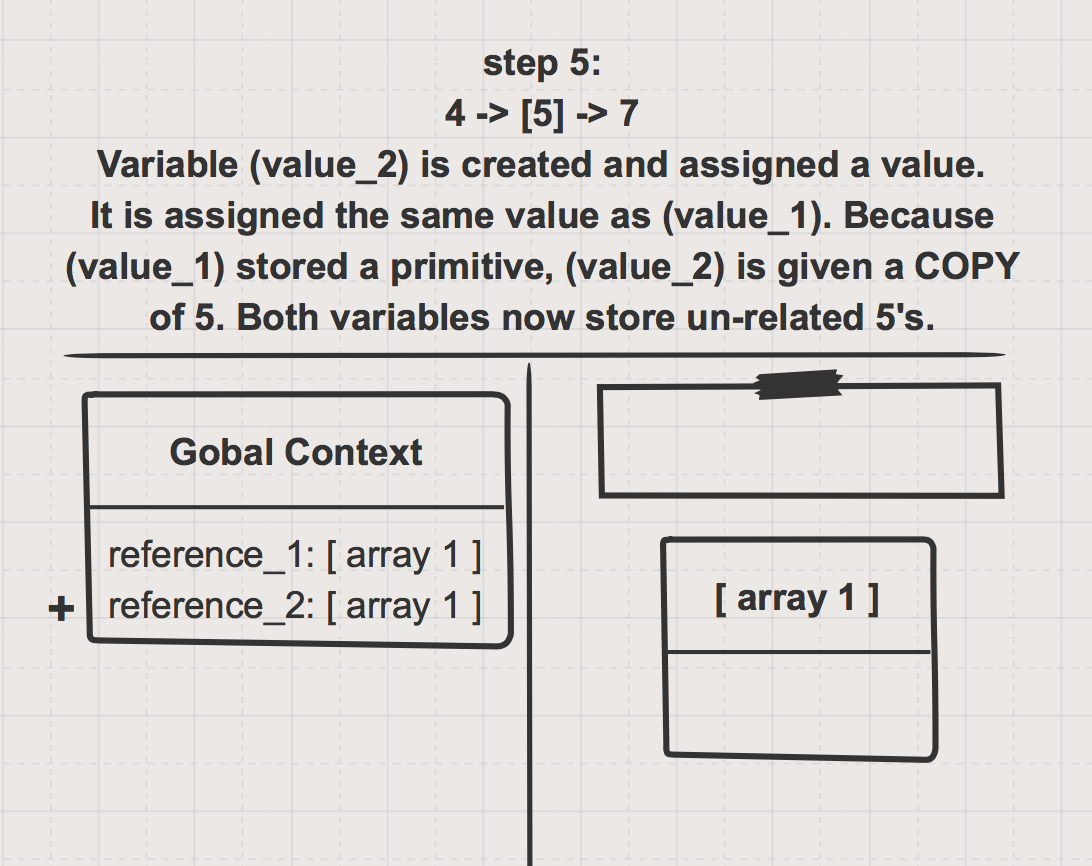
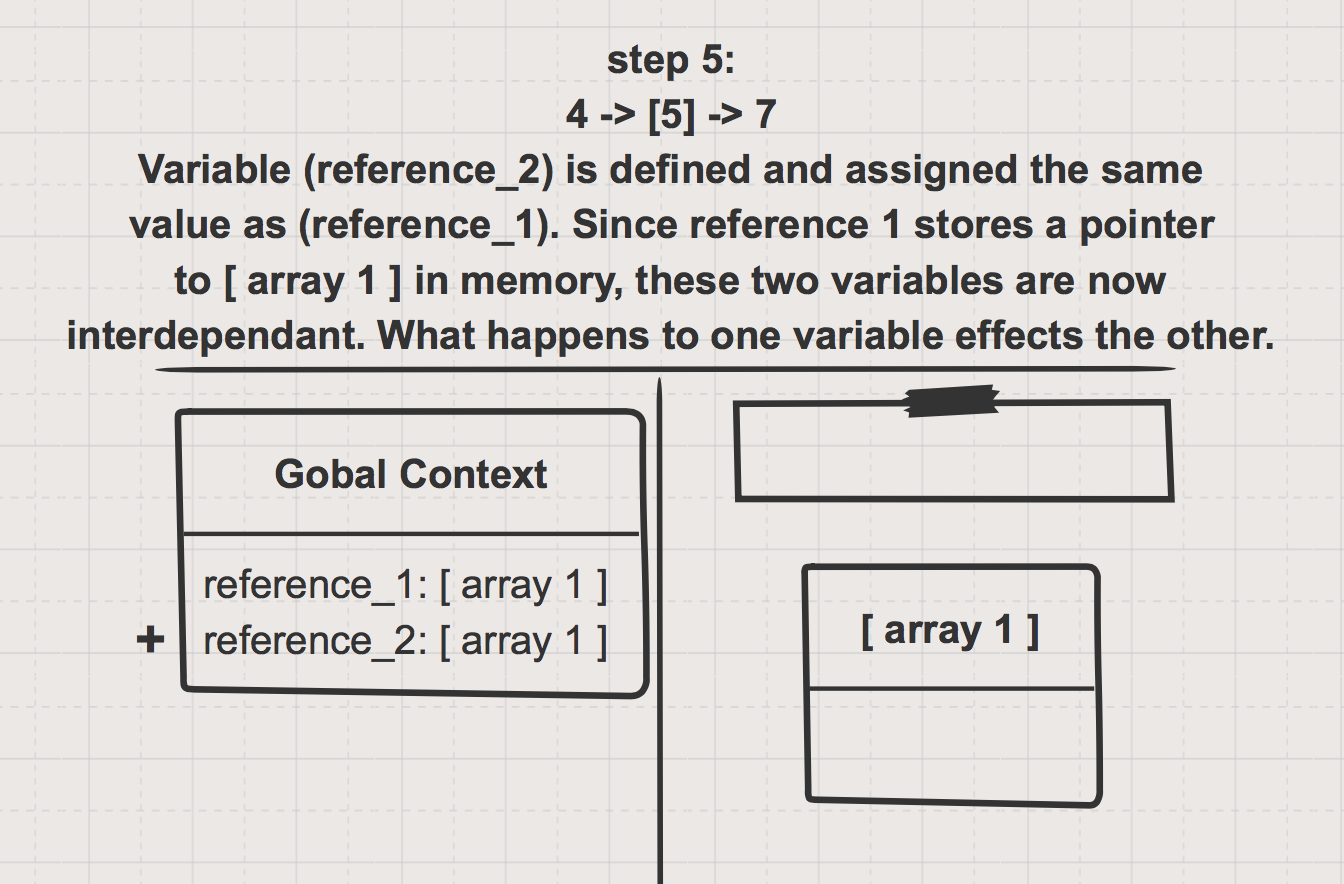
good first draft

Changed region(s): [[0.0311, 0.0312, 0.9652, 1.0]]

diff --git a/README.md b/README.md
@@ -103,13 +103,17 @@ These diagrams are __change logs__. You won't be drawing everything on the scree
 
 ## Resources
 
-Completed step-through diagrams to study:
-* [Reference vs. Value](./value-vs-reference)
+__Completed step-through diagrams to study__.  These examples serve two purposes:
+1. Teach by example how to sketch JavaScript's execution behavior.
+2. Highlight some of the tricky (but very important) features of JS Variables & Types.   
+These examples seem simple on the surface, but are very important to understand.  We have found that many errors students come across have nothing to do with Express, Vue, or any other library/framework.  Instead the errors come from mis-understanding one of these pure JS concepts:
+* Assignment vs. Comparison
+* Chainined Assignments
 * [Value Swap](./value-swap)
-* [Variables are __untyped__](./variables-are-untyped)
-* [Chaining Assignments](./chaining-assignments)
+* Variables are __untyped__
+* [Reference vs. Value](./reference-vs-value)
 * [Hoisting](./hoisting)
-* [Dot vss Bracket Access](./dots-vs-brackets)
+* [Dot vs Bracket Access](./dots-vs-brackets)
 
 Tutorials and the like:
 * [JavaScript.info](http://javascript.info/) chapters:
@@ -147,6 +151,11 @@ Tricky Bits:
   * [Primitives vs. Objects](https://codeburst.io/javascript-data-types-explained-347555cd2d4d)
   * [List of them](https://www.w3schools.com/js/js_datatypes.asp)
   * [Type Coersion](https://javascriptweblog.wordpress.com/2010/09/27/the-secret-life-of-javascript-primitives/)
+* Expressions vs. Operators:
+  * (This is a tricky concept, it will make more sense after __Scope & Flow Control__)
+  * Over Views:[dev.to](https://dev.to/promhize/javascript-in-depth-all-you-need-to-know-about-expressions-statements-and-expression-statements-5k2), [flaviocopes](https://flaviocopes.com/javascript-expressions/), [lib.ru](http://lib.ru/%3E%3C/JAVA/javascr/expr.html)
+  * In Depth: [MDN](https://developer.mozilla.org/en-US/docs/Web/JavaScript/Guide/Expressions_and_Operators), [2ality](http://2ality.com/2012/09/expressions-vs-statements.html)
+  * Assignment vs Comparison: [Overview (study with PyTut)](https://www.quirksmode.org/blog/archives/2008/01/using_the_assig.html#link1), [This isn't just a JS thing](http://wiki.c2.com/?AssignmentVsEqualityOperator)
 * Assign by reference vs. value: 
   * [Gist to study](https://gist.github.com/colevandersWands/9f50787fdddfb195d181da94c25536d8)
   * [article 1](https://codeburst.io/explaining-value-vs-reference-in-javascript-647a975e12a0)

diff --git a/chainined-assignments/README.md b/chainined-assignments/README.md
@@ -1,0 +1,30 @@
+## Chained Assignments
+
+It is possible to do more than one assignment in a single line. You can have any number of equals signs in a row.  
+
+You can think of chained assignments like passing a note in class.  
+* The note is whatever value is written on the far right hand side of the line.
+* That value is passed from variable to variable, going from right to left until each one has been assigned the same value.
+* When JS has finished executing the chained line, each variable will contain the same value.
+
+If there is anything but a variable
+___
+
+### The Code
+
+```js
+let var_1 = 1;
+let var_2 = 2;
+
+let var_3 = var_2 = var_1 = 3;
+
+let var_4 = 4 = var_3;
+
+let var_5 = var_4 = var_6;
+```
+
+[PyTut Link](https://goo.gl/HESWxP)
+
+___
+
+### The Sketches

diff --git a/assignment-vs-comparison/README.md b/assignment-vs-comparison/README.md
@@ -1,0 +1,8 @@
+let var_1 = five;
+let five = 5;
+
+console.log(five == 5);
+console.log(var_1 == five);
+
+console.log(five === 5);
+console.log(var_1 === five);

diff --git a/variables-are-untyped/README.md b/variables-are-untyped/README.md
@@ -1,0 +1,1 @@
+use discipline.
